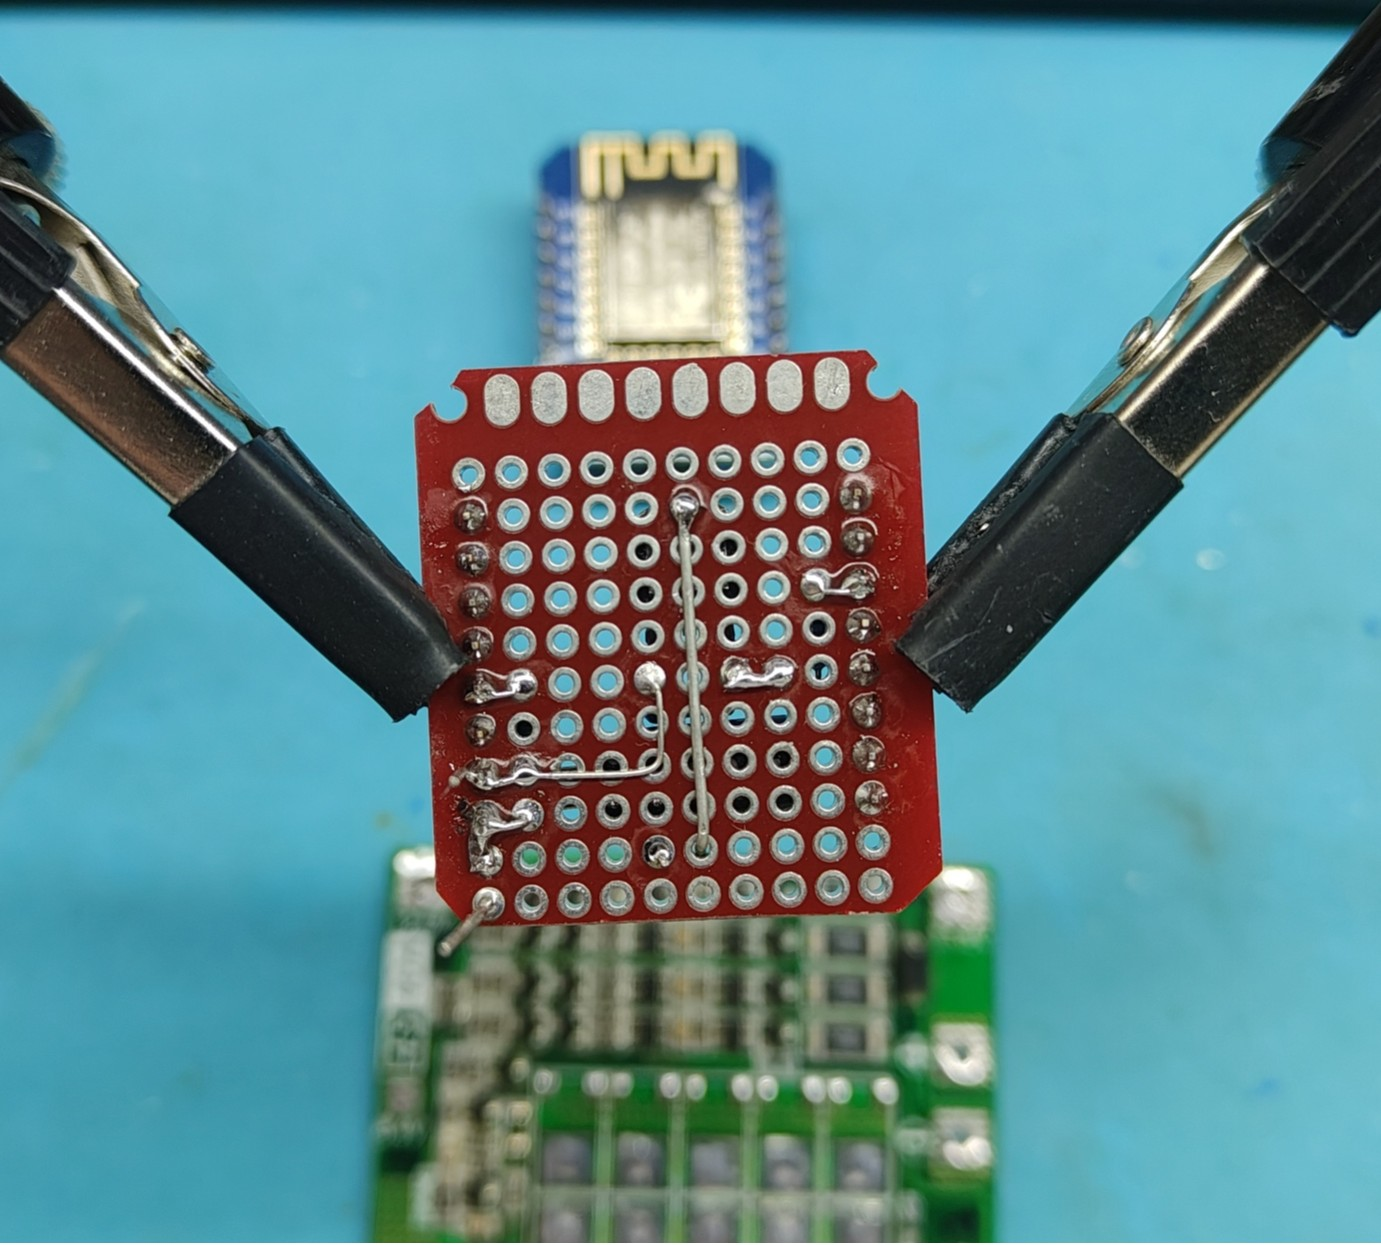
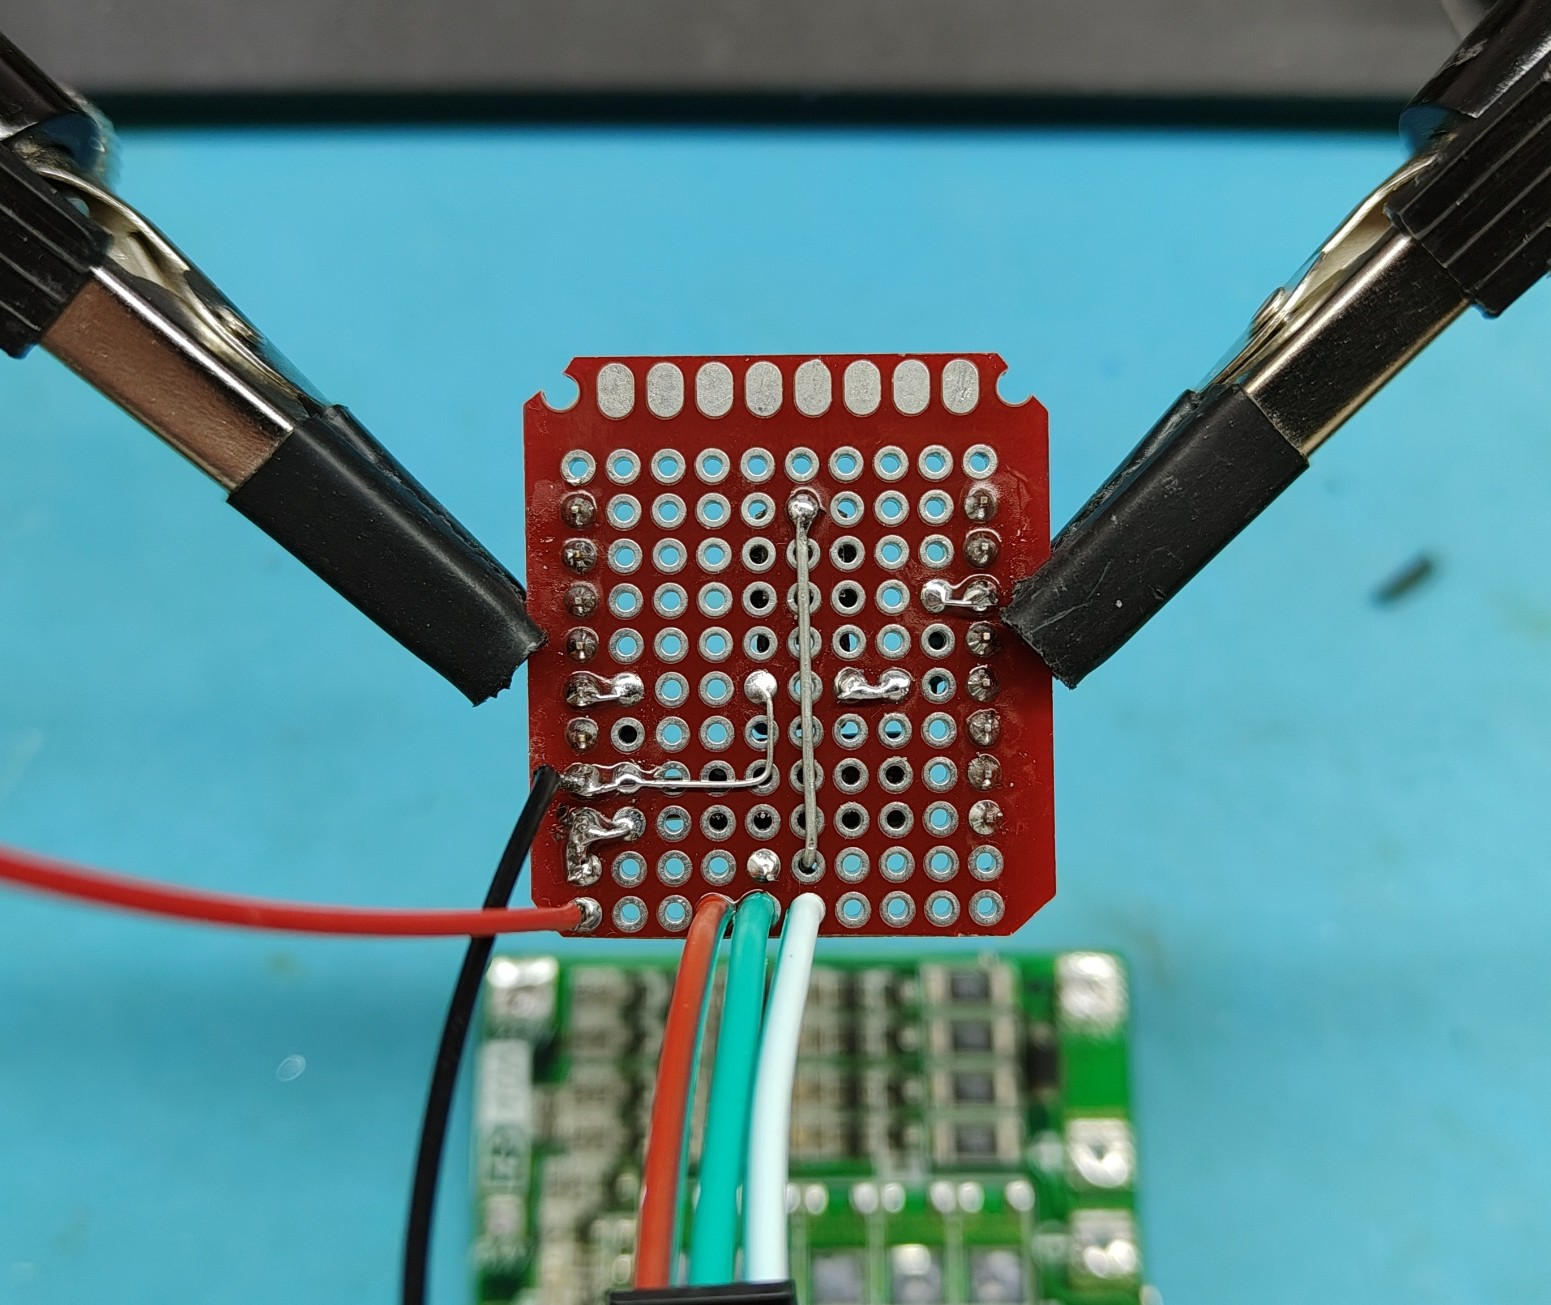
Исправлено описание

diff --git a/README.md b/README.md
@@ -7,25 +7,43 @@
 
 ## Сборка
 
-### Подготовка схемы
-
 - Для распайки компонентов хорошо подошла макетная плата 30x70. Режем пополам, оставляя по 11 отверстий с каждой стороны.
 ![SCHEME](https://github.com/Rustem666666/GyverNightLamp/blob/main/images/img03.jpg)
 - Компоненты паяются по схеме, исключая сенсор и дисплей. Транзистор заменил на D472 с платы BMS 40A(видна на фоне). Такая плата стоит 170р примерно, там 10 штук.
 ![SCHEME](https://github.com/Rustem666666/GyverNightLamp/blob/main/schemes/Lamp(ESP8266).png)
 ![SCHEME](https://github.com/Rustem666666/GyverNightLamp/blob/main/images/img04.jpg)
 ![SCHEME](https://github.com/Rustem666666/GyverNightLamp/blob/main/images/img05.jpg)
-
-
 - Печатаем две половинки корпуса из папки 3D print. Печатать лучше круглой частью к столу, так меньше поддержек и печатается быстрее. Но принтеры разные, так что на своё усмотрение.
 ![SCHEME](https://github.com/Rustem666666/GyverNightLamp/blob/main/images/img01.jpg)
 - Загоняем гайки в паз, закручивая болтик без второй половики.
 ![SCHEME](https://github.com/Rustem666666/GyverNightLamp/blob/main/images/img02.jpg)
-
-
+- Цоколь используем от сгоревшей лампочки, предварительно отрезав болгаркой примерно 5мм от металлической части. Если нет лампочки, можно использовать переходник e27 e14, но если покупать он стоит также как самая дешёвая лампочка.
+![SCHEME](https://github.com/Rustem666666/GyverNightLamp/blob/main/images/img06.jpg)
+- Модуль питания используем такой 5В 2А. На алиэкспресс стоит 130р
+![SCHEME](https://github.com/Rustem666666/GyverNightLamp/blob/main/images/img07.jpg)
+- Собираем компоненты в корпусе.
+![SCHEME](https://github.com/Rustem666666/GyverNightLamp/blob/main/images/img08.jpg)
+- Матрицу используем 8x32. Режем пополам по 16 столбиков светодиодов с каждой стороны.
+![SCHEME](https://github.com/Rustem666666/GyverNightLamp/blob/main/images/img09.jpg)
+![SCHEME](https://github.com/Rustem666666/GyverNightLamp/blob/main/images/img10.jpg)
+- Отпаиваем провод, отрезаем 3 см, запаиваем обратно.
+![SCHEME](https://github.com/Rustem666666/GyverNightLamp/blob/main/images/img11.jpg)
+- Опционально нарезаем алюминиевую банку на лист 15,8 на 9 см. Для отвода тепла.
+![SCHEME](https://github.com/Rustem666666/GyverNightLamp/blob/main/images/img12.jpg)
+- Вырезаем примерно 2 на 2 см, чтобы не замкнуло, и приклеиваем к матрице двумя капельками горячего клея.
+![SCHEME](https://github.com/Rustem666666/GyverNightLamp/blob/main/images/img13.jpg)
+- Соединяем матрицу. Цоколь сажаем на клей.
+![SCHEME](https://github.com/Rustem666666/GyverNightLamp/blob/main/images/img14.jpg)
+- Заворачиваем всё и крепим стяжками. Между листом алюминия и пластиком тоже нужна капля клея, для того чтобы алюминий не проскальзывал, когда заворачиваем лампочку в цоколь. (Горячий клей не стоит капать на алюминий, так как он очень быстро остывает)
+![SCHEME](https://github.com/Rustem666666/GyverNightLamp/blob/main/images/img15.jpg)
+- Лампа готова, осталось поставить Wemos.
 
 ## Примечания
-Если
+Вторую часть матрицы в штатных местах запаиваем только 5в и GND. Третий провод оставляем сверху, чтобы запаять как на картинке.
+![SCHEME](https://github.com/Rustem666666/GyverNightLamp/blob/main/images/img16.jpg)
+
+## Прошивка
+
 
 ## Полезная информация
 * [Сайт AlexGyver](http://alexgyver.ru/)